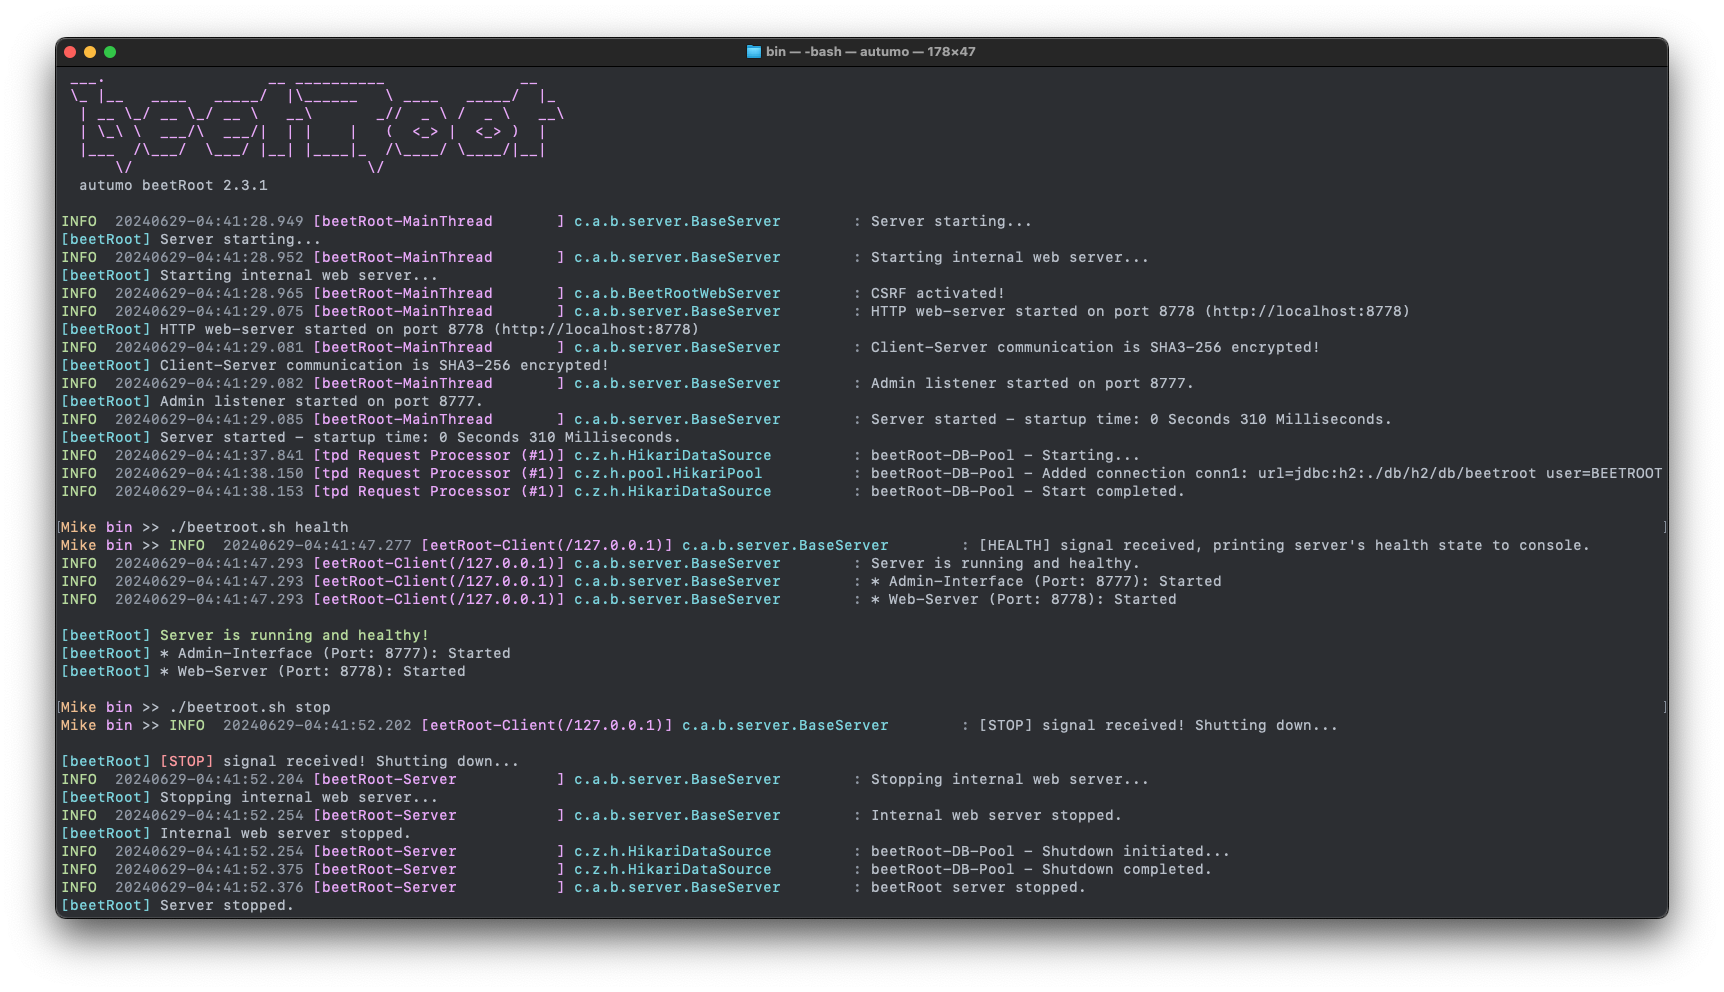
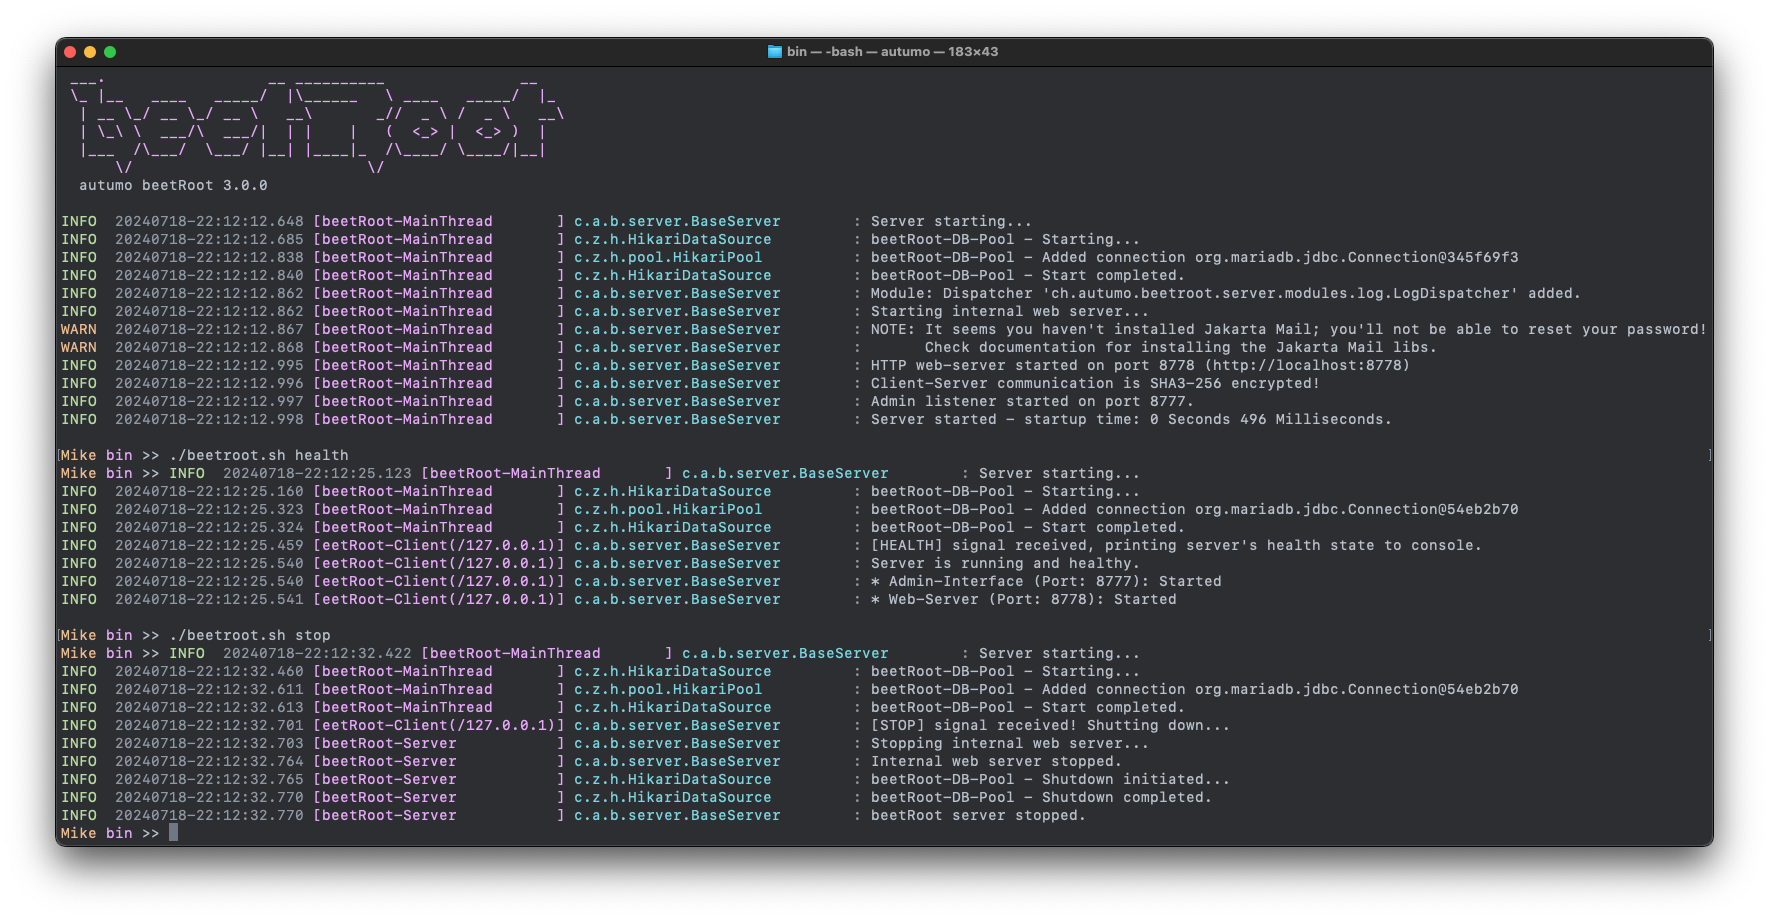
Fixes, new screeners

Changed region(s): [[0.0307, 0.0304, 0.9838, 0.9435], [0.8915, 0.5478, 0.9223, 0.5783]]

diff --git a/src/main/java/ch/autumo/beetroot/server/BaseServer.java b/src/main/java/ch/autumo/beetroot/server/BaseServer.java
@@ -43,6 +43,7 @@ import ch.autumo.beetroot.BeetRootConfigurationManager;
 import ch.autumo.beetroot.BeetRootDatabaseManager;
 import ch.autumo.beetroot.BeetRootWebServer;
 import ch.autumo.beetroot.Constants;
+import ch.autumo.beetroot.logging.LogEventAppender;
 import ch.autumo.beetroot.logging.LoggingFactory;
 import ch.autumo.beetroot.server.action.Download;
 import ch.autumo.beetroot.server.action.Upload;
@@ -238,6 +239,22 @@ public abstract class BaseServer {
 		
 		//------------------------------------------------------------------------------
 		
+		// configure logging
+		String logCfgFile = System.getProperty("log4j2.configurationFile");
+		// check if it has been overwritten with the 'log4j.configuration' parameter
+		if (logCfgFile == null)
+			logCfgFile = configMan.getString("ws_log_cfg");
+		
+		this.initializeLogging(logCfgFile);
+		
+		//------------------------------------------------------------------------------
+		
+		LOG.info("Server starting...");
+		if (!LOG.isInfoEnabled())
+			System.out.println(ansiServerName + " Server starting...");
+
+		//------------------------------------------------------------------------------
+		
 		// DB manager initialization if not yet done!
 		try {
 			
@@ -254,18 +271,12 @@ public abstract class BaseServer {
 			System.err.println(ansiErrServerName + " Couldn't create DB manager!");
 			Helper.fatalExit();
 		}
-		
+
 		
 		//------------------------------------------------------------------------------
-		
-		// configure logging
-		String logCfgFile = System.getProperty("log4j2.configurationFile");
-		// check if it has been overwritten with the 'log4j.configuration' parameter
-		if (logCfgFile == null)
-			logCfgFile = configMan.getString("ws_log_cfg");
-		
-		this.initializeLogging(logCfgFile);
 
+		// Initialize the log event appender
+		LogEventAppender.initializeAppender();
 		
 		//------------------------------------------------------------------------------
 
@@ -393,13 +404,12 @@ public abstract class BaseServer {
 		
 		final boolean start = this.beforeStart();
 		// start pre-condition ok? 
-		if (!start)
+		if (!start) {
+			LOG.warn("Server stopped by before-start hook!");
+			if (!LOG.isWarnEnabled())
+				System.out.println(ansiServerName + " Server stopped by before-start hook!");
 			return;
-		
-		LOG.info("Server starting...");
-		
-		if (!LOG.isInfoEnabled())
-			System.out.println(ansiServerName + " Server starting...");
+		}
 
 		// Server dispatcher initialization
 		this.initializeDispatchers();
@@ -677,9 +687,9 @@ public abstract class BaseServer {
 	            final Dispatcher d = (Dispatcher) constructor.newInstance();
 	            // add dispatcher that handles server commands of distributed components/modules
 	            dispatchers.put(d.getId(), d);
-	            LOG.info("- Modules: Dispatcher '"+currDisp+"' added.");
+	            LOG.info("Module: Dispatcher '"+currDisp+"' added.");
 	            if (!LOG.isInfoEnabled())
-		            System.out.println("- Modules: Dispatcher '"+currDisp+"' added.");
+		            System.out.println("Module: Dispatcher '"+currDisp+"' added.");
 			} catch (Exception ex) {
 				LOG.error("Cannot create server dispatcher '"+currDisp+"'! Stopping.", ex);
 				System.err.println(ansiErrServerName + " Cannot create server dispatcher '"+currDisp+"'! Stopping.");

diff --git a/src/main/java/ch/autumo/beetroot/logging/LogEventAppender.java b/src/main/java/ch/autumo/beetroot/logging/LogEventAppender.java
@@ -17,6 +17,7 @@
  */
 package ch.autumo.beetroot.logging;
 
+import java.util.Arrays;
 import java.util.Collections;
 import java.util.List;
 
@@ -45,51 +46,11 @@ public class LogEventAppender extends AbstractAppender {
 	/** Default log size . */
 	public static int DEFAULT_LOG_SIZE = 100;
 	
-	private static int size;
-	static {
-		String sSize;
-		try {
-			sSize = BeetRootDatabaseManager.getInstance().getProperty("log.size");
-			if (sSize != null) {
-				try {
-					size = Integer.valueOf(sSize).intValue();
-				} catch (Exception e) {
-					size = DEFAULT_LOG_SIZE;
-				}
-			} else {
-				size = DEFAULT_LOG_SIZE;
-			}	
-		} catch (Exception e) {
-			size = DEFAULT_LOG_SIZE;
-		}
-		
-		// Install CRUD update listener for settings
-		EventHandler.getInstance().addUpdateListener(Property.class, new UpdateListener() {
-			@Override
-			public boolean beforeUpdate(Model bean) {
-				return false;
-			}
-			@Override
-			public void afterUpdate(Model bean) {
-				final Property prop = (Property) bean;
-				if (prop.getName().equals("log.size")) {
-					int val = size;
-					try {
-						val = Integer.valueOf(prop.getValue()).intValue();	
-					} catch (Exception e) {
-					}
-					if (val != size) {
-						size = val;
-						logEvents.setMaxSize(size);
-						logEvents.resize();
-					}
-				}
-			}
-		});
-	}
-	
-    private static final LogEventList<LogEvent> logEvents = new LogEventList<>(size);
+	private static int size = DEFAULT_LOG_SIZE;
+	private static LogEventList<LogEvent> logEvents = new LogEventList<>(size);
 
+	private static boolean isInitialized = false;
+	
     
     /**
      * Log event appender.
@@ -119,5 +80,62 @@ public class LogEventAppender extends AbstractAppender {
     public static List<LogEvent> getLogEvents() {
         return Collections.unmodifiableList(logEvents);
     }
-    
+
+    /**
+     * Initialize the appender.
+     * This call must be made!
+     */
+	public static void initializeAppender() {
+		
+		if (isInitialized)
+			return;
+		
+		String sSize;
+		try {
+			sSize = BeetRootDatabaseManager.getInstance().getProperty("log.size");
+			if (sSize != null) {
+				try {
+					size = Integer.valueOf(sSize).intValue();
+				} catch (Exception e) {
+					size = DEFAULT_LOG_SIZE;
+				}
+			} else {
+				size = DEFAULT_LOG_SIZE;
+			}	
+		} catch (Exception e) {
+			size = DEFAULT_LOG_SIZE;
+		}
+
+		// Recreate and re-fill
+		final LogEvent tempEvents[] = logEvents.toArray(new LogEvent[logEvents.size()]);
+		logEvents = new LogEventList<>(size);
+		logEvents.addAll(Arrays.asList(tempEvents));
+		
+		// Install CRUD update listener for settings
+		EventHandler.getInstance().addUpdateListener(Property.class, new UpdateListener() {
+			@Override
+			public boolean beforeUpdate(Model bean) {
+				return false;
+			}
+			@Override
+			public void afterUpdate(Model bean) {
+				final Property prop = (Property) bean;
+				if (prop.getName().equals("log.size")) {
+					int val = size;
+					try {
+						val = Integer.valueOf(prop.getValue()).intValue();	
+					} catch (Exception e) {
+					}
+					if (val != size) {
+						size = val;
+						logEvents.setMaxSize(size);
+						logEvents.resize();
+					}
+				}
+			}
+		});
+		
+		isInitialized = true;
+	} 
+	
 }
